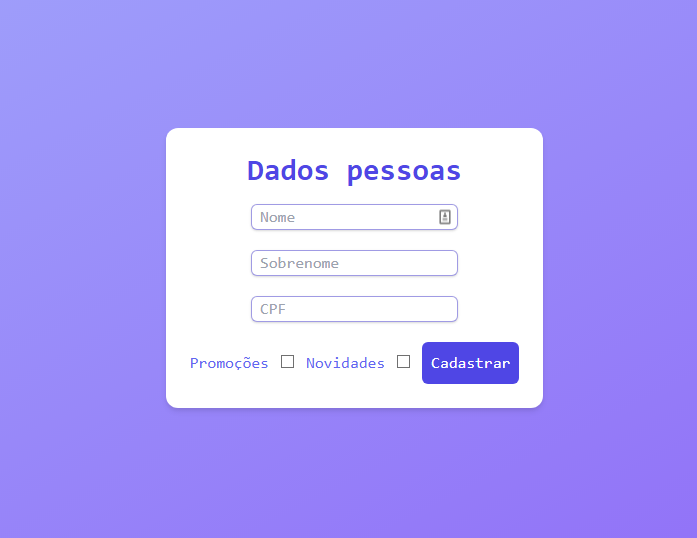
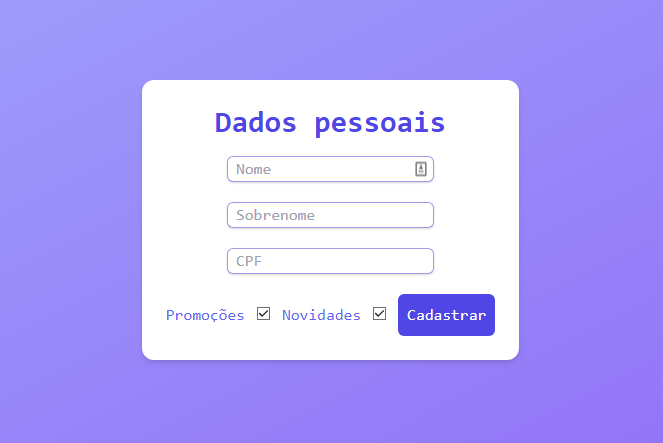
ajustar

Changed region(s): [[0.2112, 0.1761, 0.7843, 0.8217]]

diff --git a/src/pages/components/FormularioCadastro/FormularioCadastro.jsx b/src/pages/components/FormularioCadastro/FormularioCadastro.jsx
@@ -20,7 +20,7 @@ function FormularioCadastro({ aoEnviar }) {
         >
           <div className="flex-shrink-0">
             <h1 className="text-indigo-600 text-center pb-3 text-3xl font-bold">
-              Dados pessoas
+              Dados pessoais
             </h1>
 
             <input
